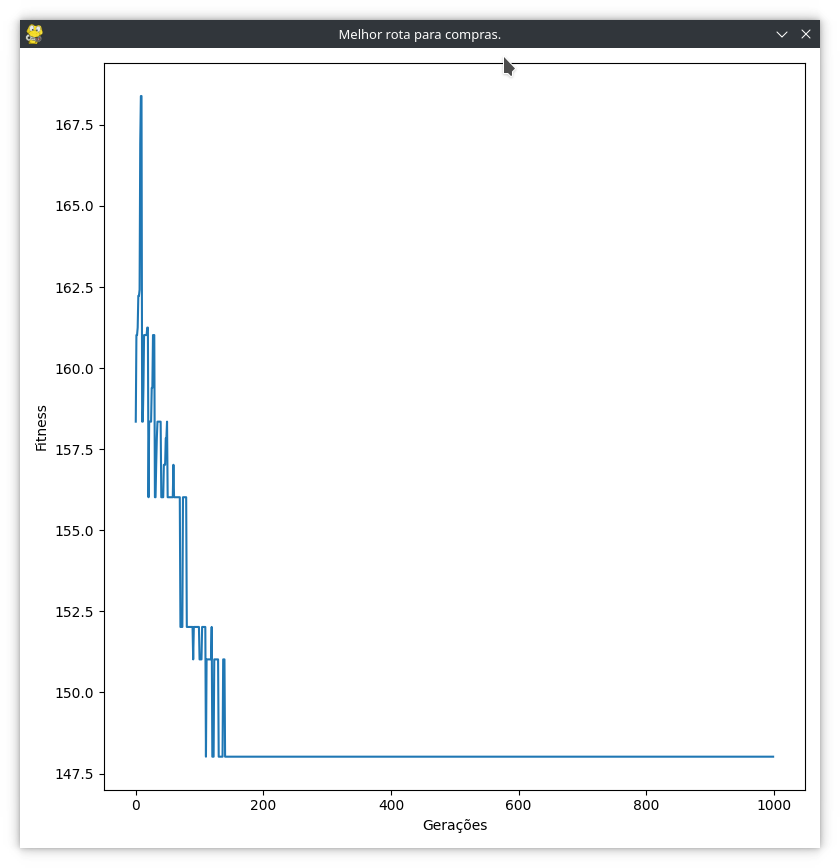
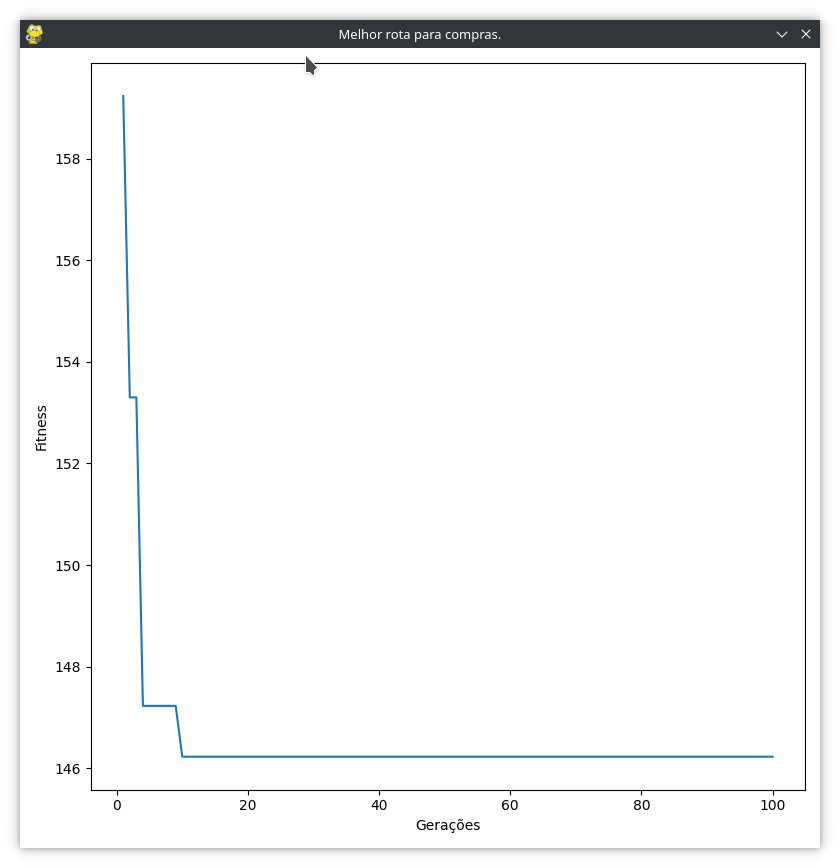
Melhorias no gráfico e novos gráficos.

diff --git a/Tech_Challenge_Fase_02/motoboy-e-compras/genetico.py b/Tech_Challenge_Fase_02/motoboy-e-compras/genetico.py
@@ -11,6 +11,7 @@ class Genetico:
         self.geracao = 0
         self.geracoes_maximas = geracoes_maximas
         self.evolucao = []
+        self.lista_geracao = []
 
     def qtd_geracao(self):
         return self.geracao
@@ -37,7 +38,7 @@ class Genetico:
                 self.populacao.selecionar(
                     mutacao_populacional, crossover_populacional)
 
-                self.evolucao += self.populacao.populacao
+                # self.evolucao += self.populacao.populacao
 
                 novo_melhor_caminho = self.populacao.top()
 
@@ -47,15 +48,16 @@ class Genetico:
                 self.geracao += 1
                 # print(f'self.geracao {self.geracao} - melhor_caminho_anterior.fit_caminho {melhor_caminho_anterior.fit_caminho}')
 
+                self.evolucao += [melhor_caminho_anterior]
+                self.lista_geracao += [self.geracao]
+
+                
+
                 if self.geracao % 50 == 0:
                     print(f"Geração: {self.geracao}\nFit: \n{melhor_caminho_anterior}\n\n")
 
         return melhor_caminho_anterior
 
     def gerarGrafico(self):
-        # fitness_individuo = [self.evolucao[geracao].fit_caminho for geracao in range(geracoes)]
-
         fitness_individuo = [caminho.fit_caminho for caminho in self.evolucao if caminho.status]
-
-        # plotar_grafico(x=range(0, geracoes), y=fitness_individuo, x_label='Gerações', y_label='Fitness')
-        plotar_grafico(x=range(0, len(fitness_individuo)), y=fitness_individuo, x_label='Gerações', y_label='Fitness')
+        plotar_grafico(x=self.lista_geracao, y=fitness_individuo, x_label='Gerações', y_label='Fitness')
